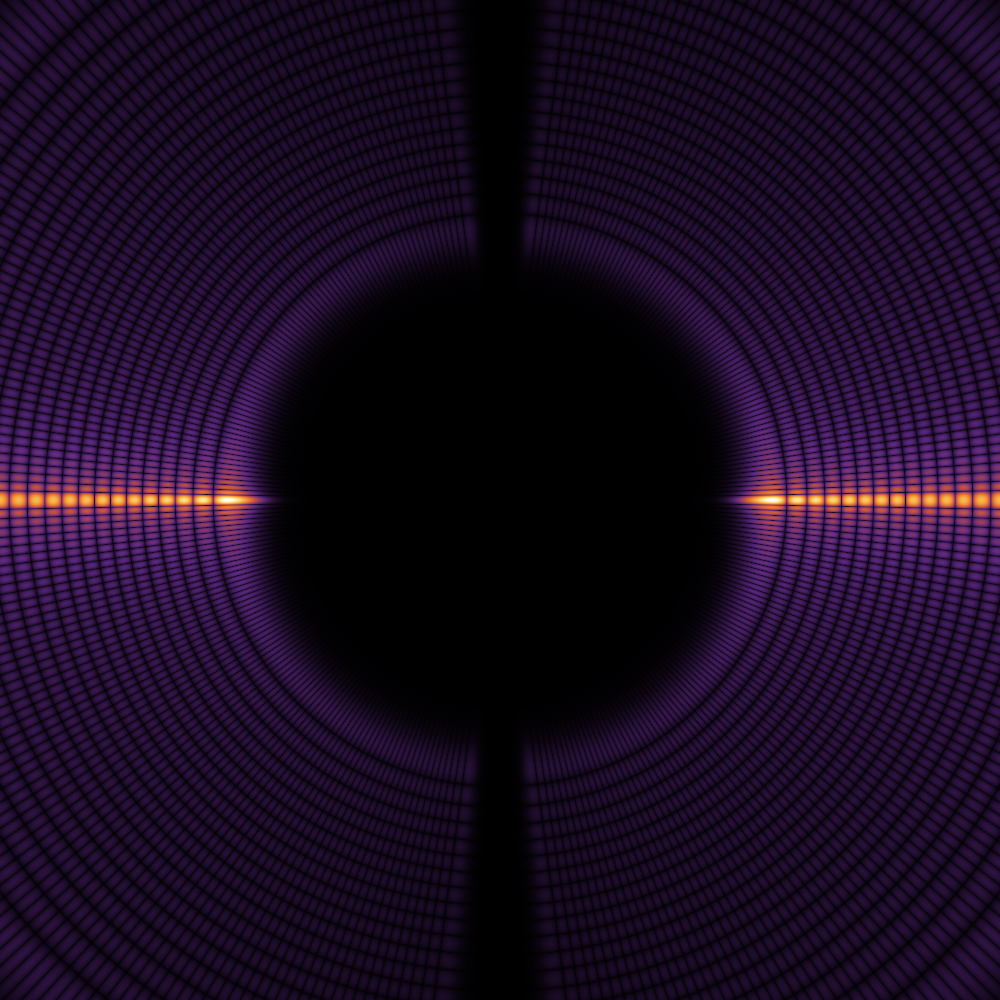
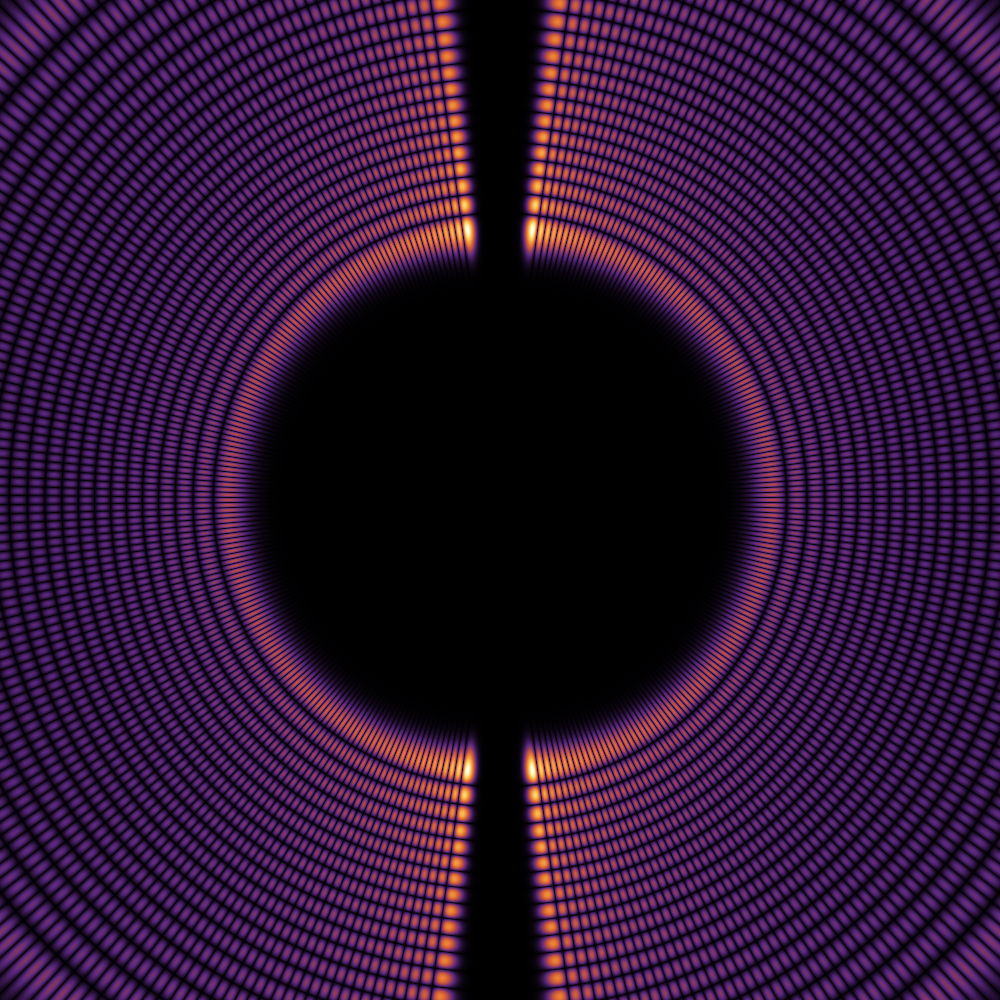
fix off-by-one bug when constructing associated legendre function

diff --git a/render-hydrogen/evaluator.go b/render-hydrogen/evaluator.go
@@ -101,7 +101,7 @@ func angular(l, m int) *polynomial {
 	}
 	for k := len(pl.coeff) - 1; k >= m; k -= 2 {
 		poly.coeff[k-m] = blankFloat().Set(pl.coeff[k])
-		for j := 0; j < m-1; j++ {
+		for j := 0; j < m; j++ {
 			poly.coeff[k-m].Mul(poly.coeff[k-m], newFromInt(k-j))
 		}
 	}
